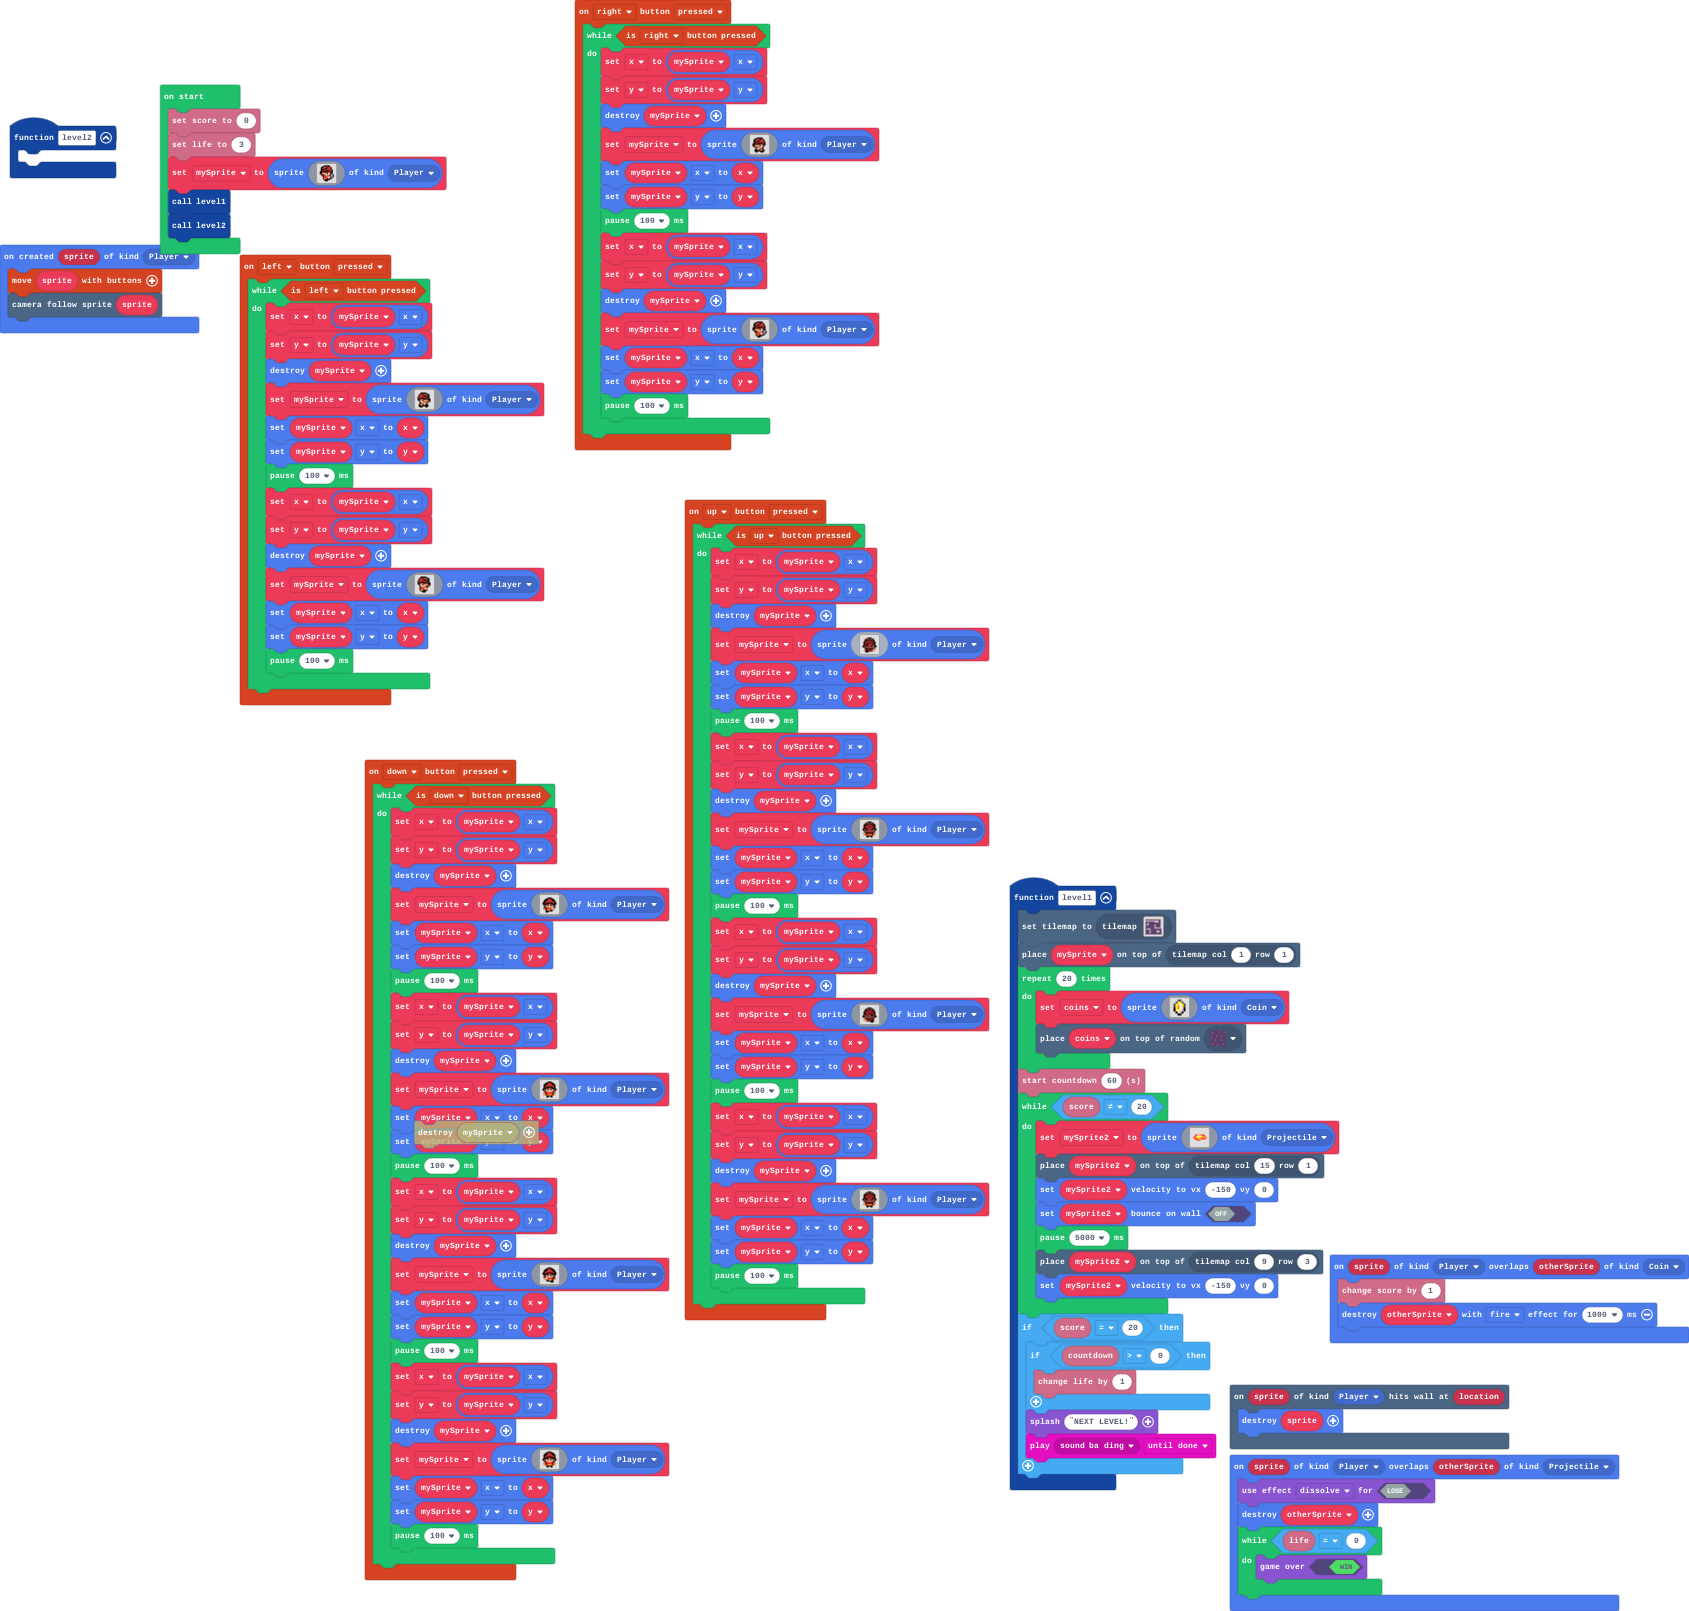
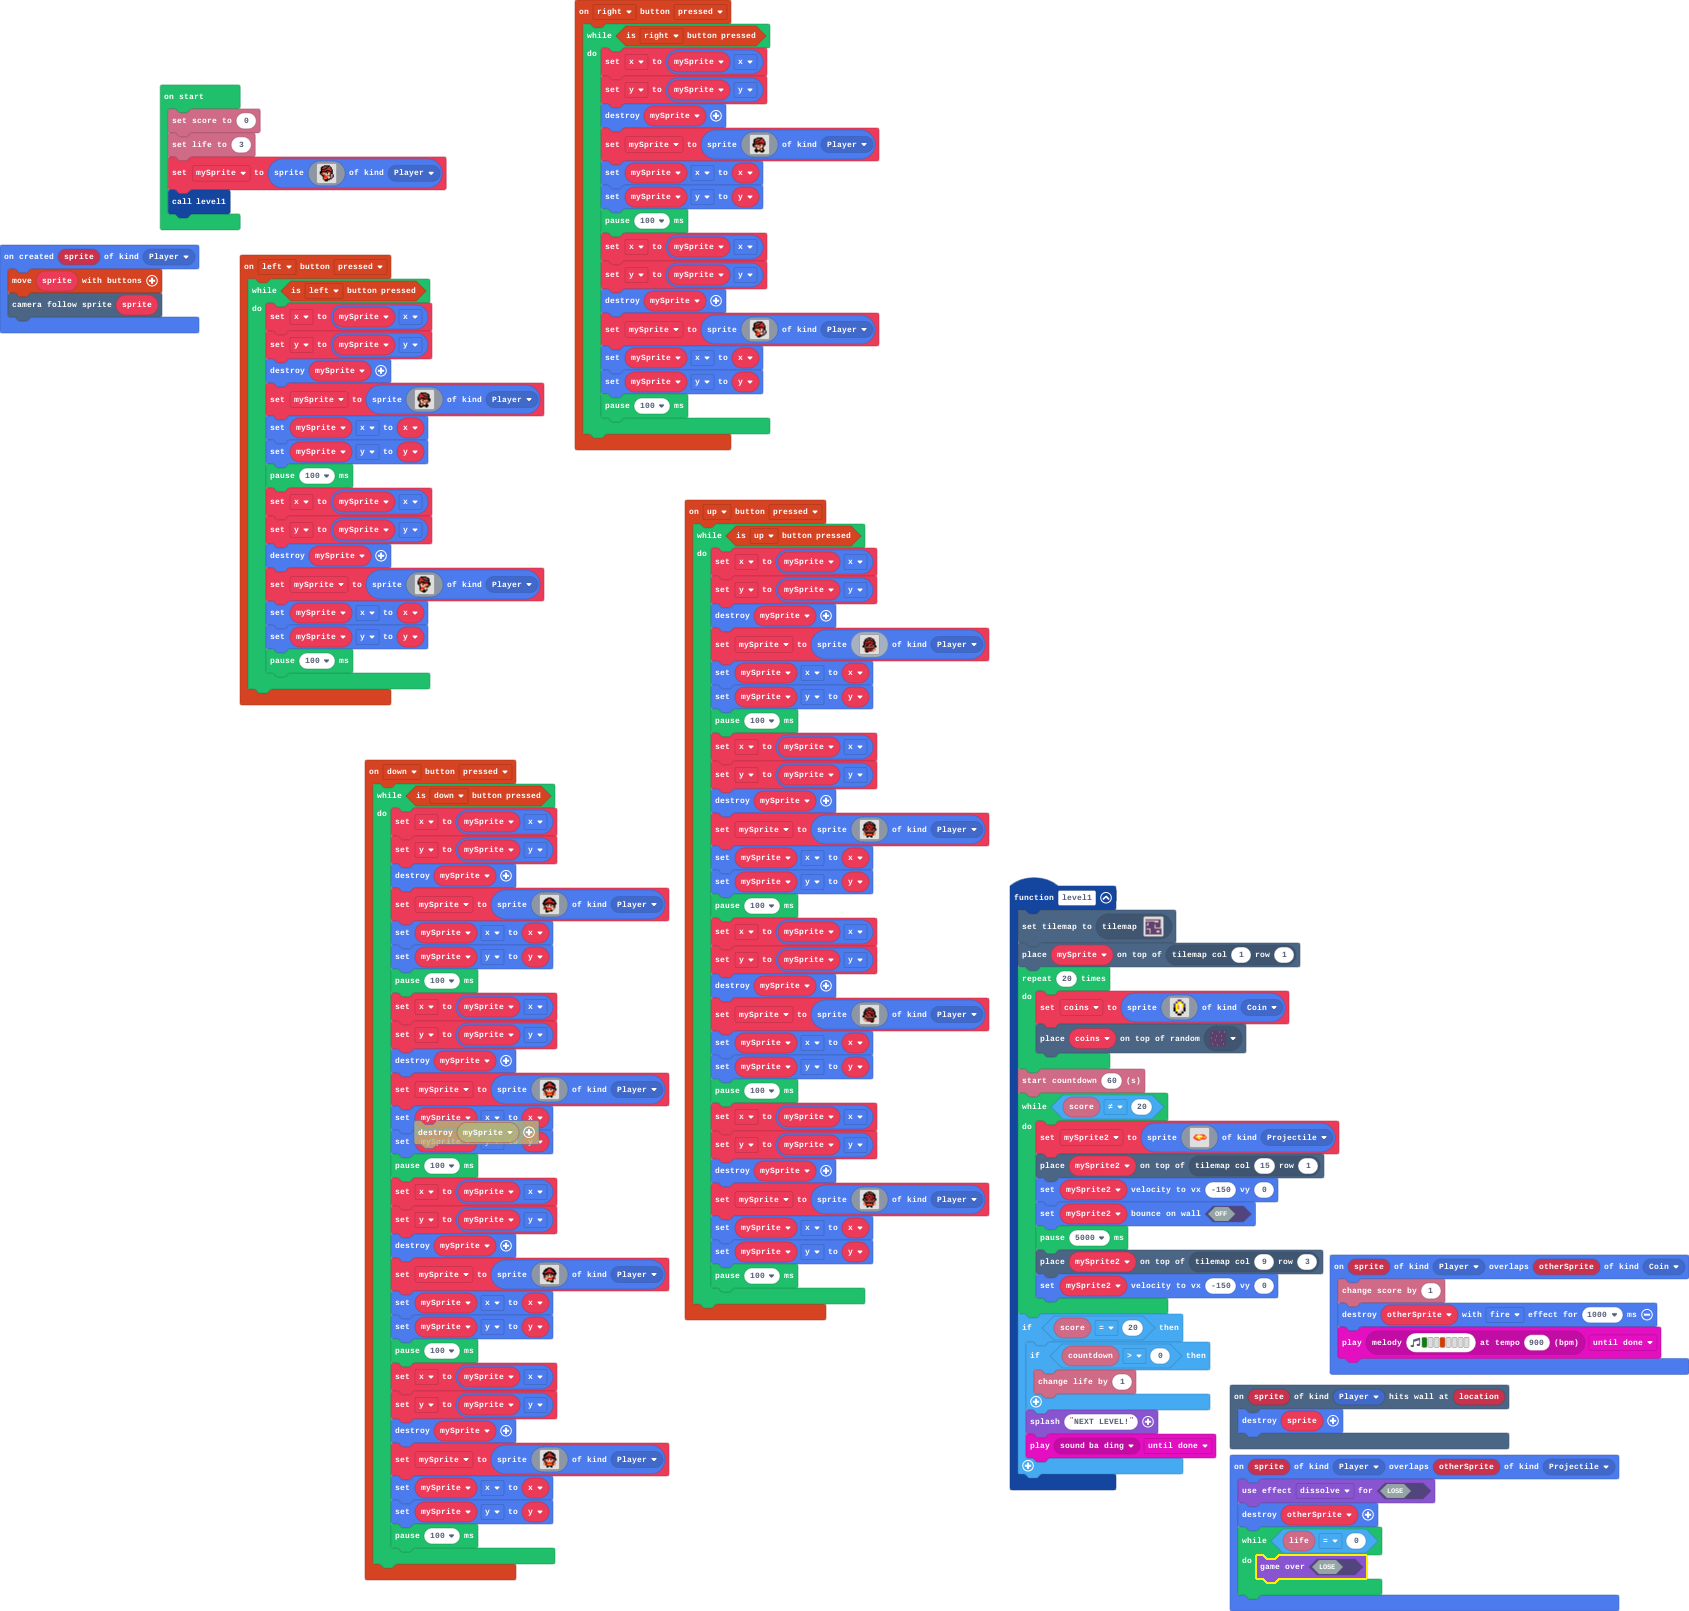
Update main.blocks, main.ts

diff --git a/main.ts b/main.ts
@@ -107,6 +107,7 @@ scene.onHitWall(SpriteKind.Player, function (sprite, location) {
 sprites.onOverlap(SpriteKind.Player, SpriteKind.Coin, function (sprite, otherSprite) {
     info.changeScoreBy(1)
     sprites.destroy(otherSprite, effects.fire, 1000)
+    music.play(music.stringPlayable("G - - B - - - - ", 900), music.PlaybackMode.UntilDone)
 })
 function level1 () {
     tiles.setCurrentTilemap(tilemap`level4`)
@@ -211,9 +212,6 @@ controller.left.onEvent(ControllerButtonEvent.Pressed, function () {
         pause(100)
     }
 })
-function level2 () {
-	
-}
 controller.right.onEvent(ControllerButtonEvent.Pressed, function () {
     while (controller.right.isPressed()) {
         x = mySprite.x
@@ -270,7 +268,7 @@ sprites.onOverlap(SpriteKind.Player, SpriteKind.Projectile, function (sprite, ot
     game.setGameOverEffect(false, effects.dissolve)
     sprites.destroy(otherSprite)
     while (info.life() == 0) {
-        game.gameOver(true)
+        game.gameOver(false)
     }
 })
 controller.down.onEvent(ControllerButtonEvent.Pressed, function () {
@@ -403,4 +401,3 @@ mySprite = sprites.create(img`
     . . . . . . f f f . . . . . . . 
     `, SpriteKind.Player)
 level1()
-level2()
